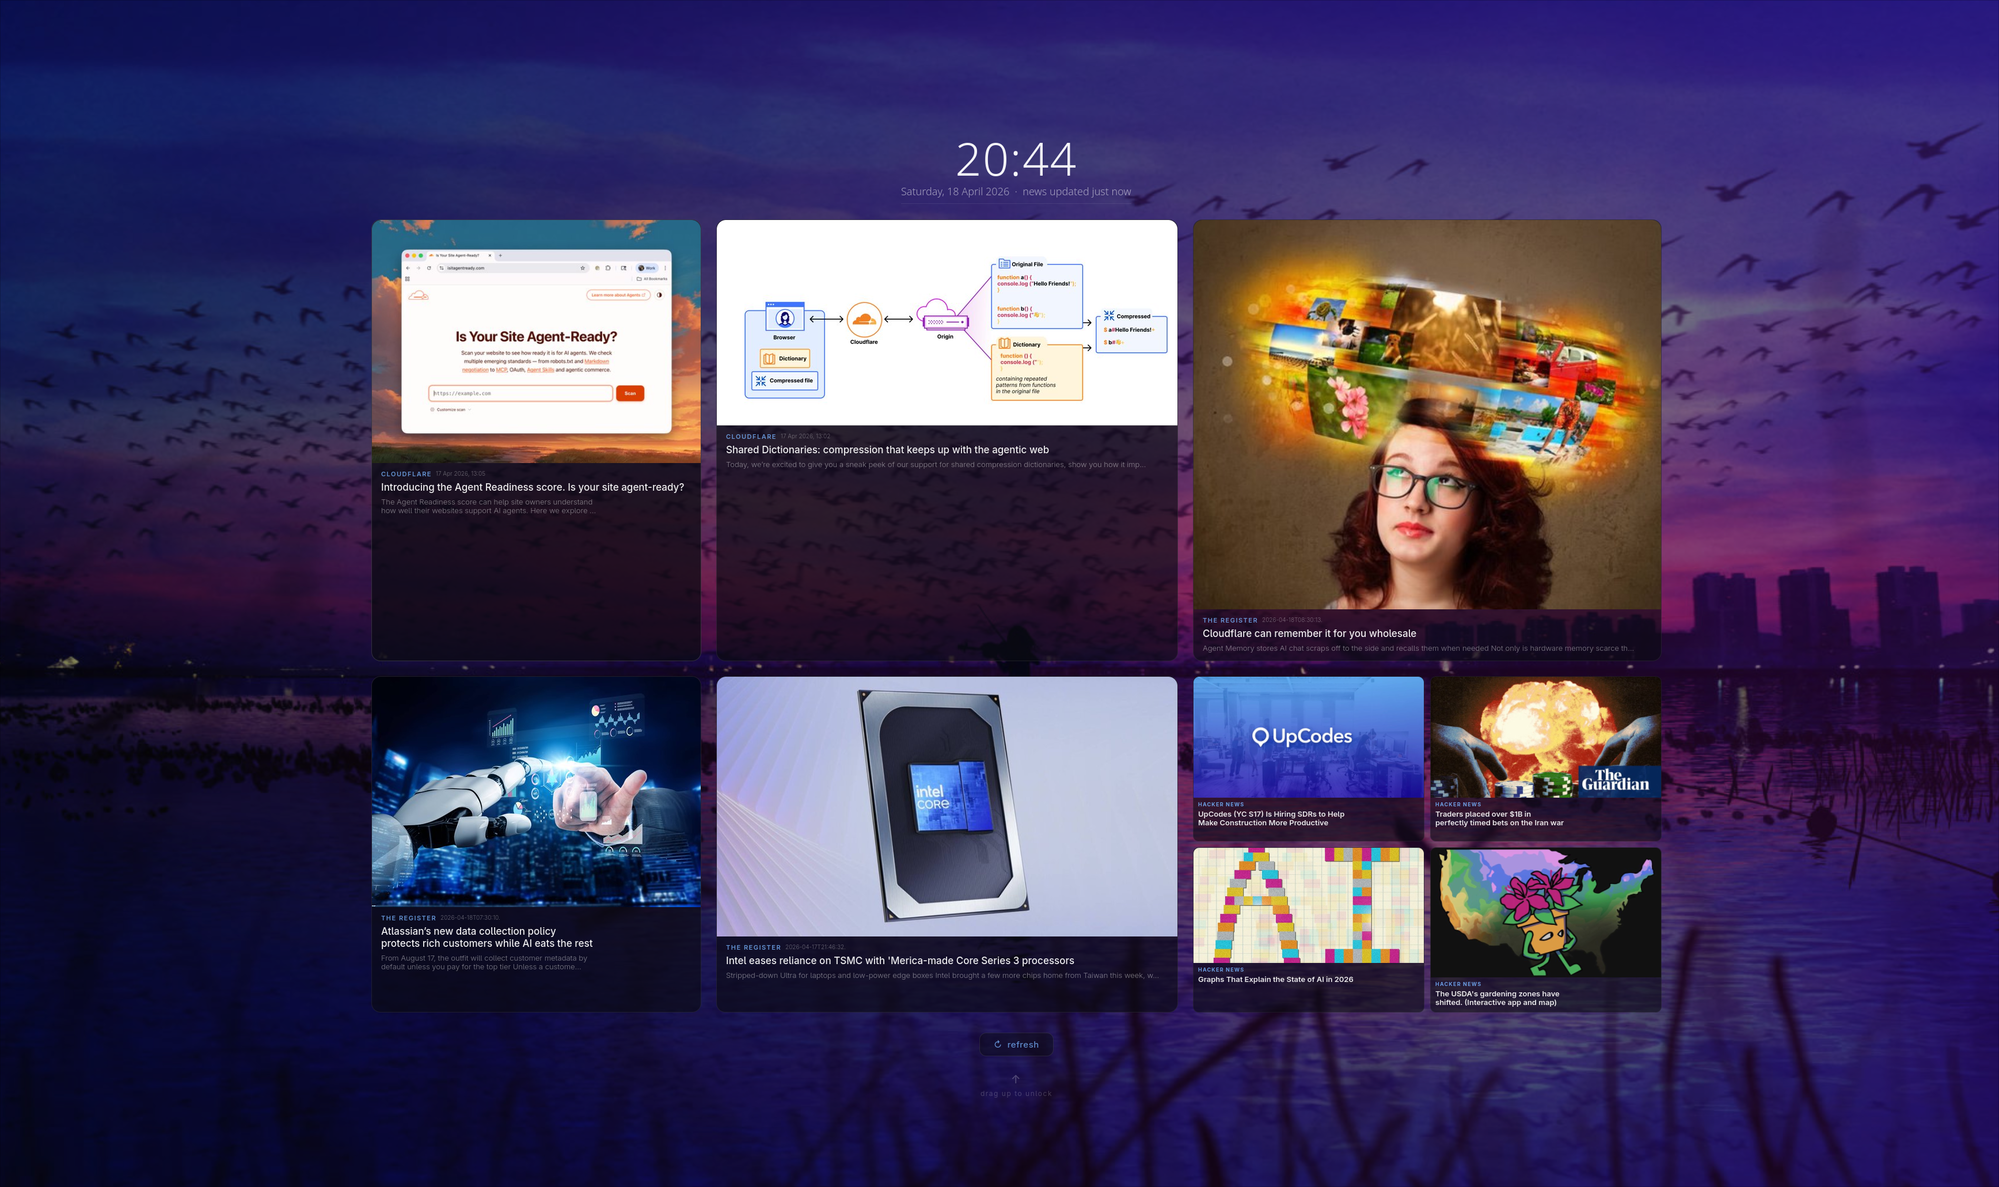
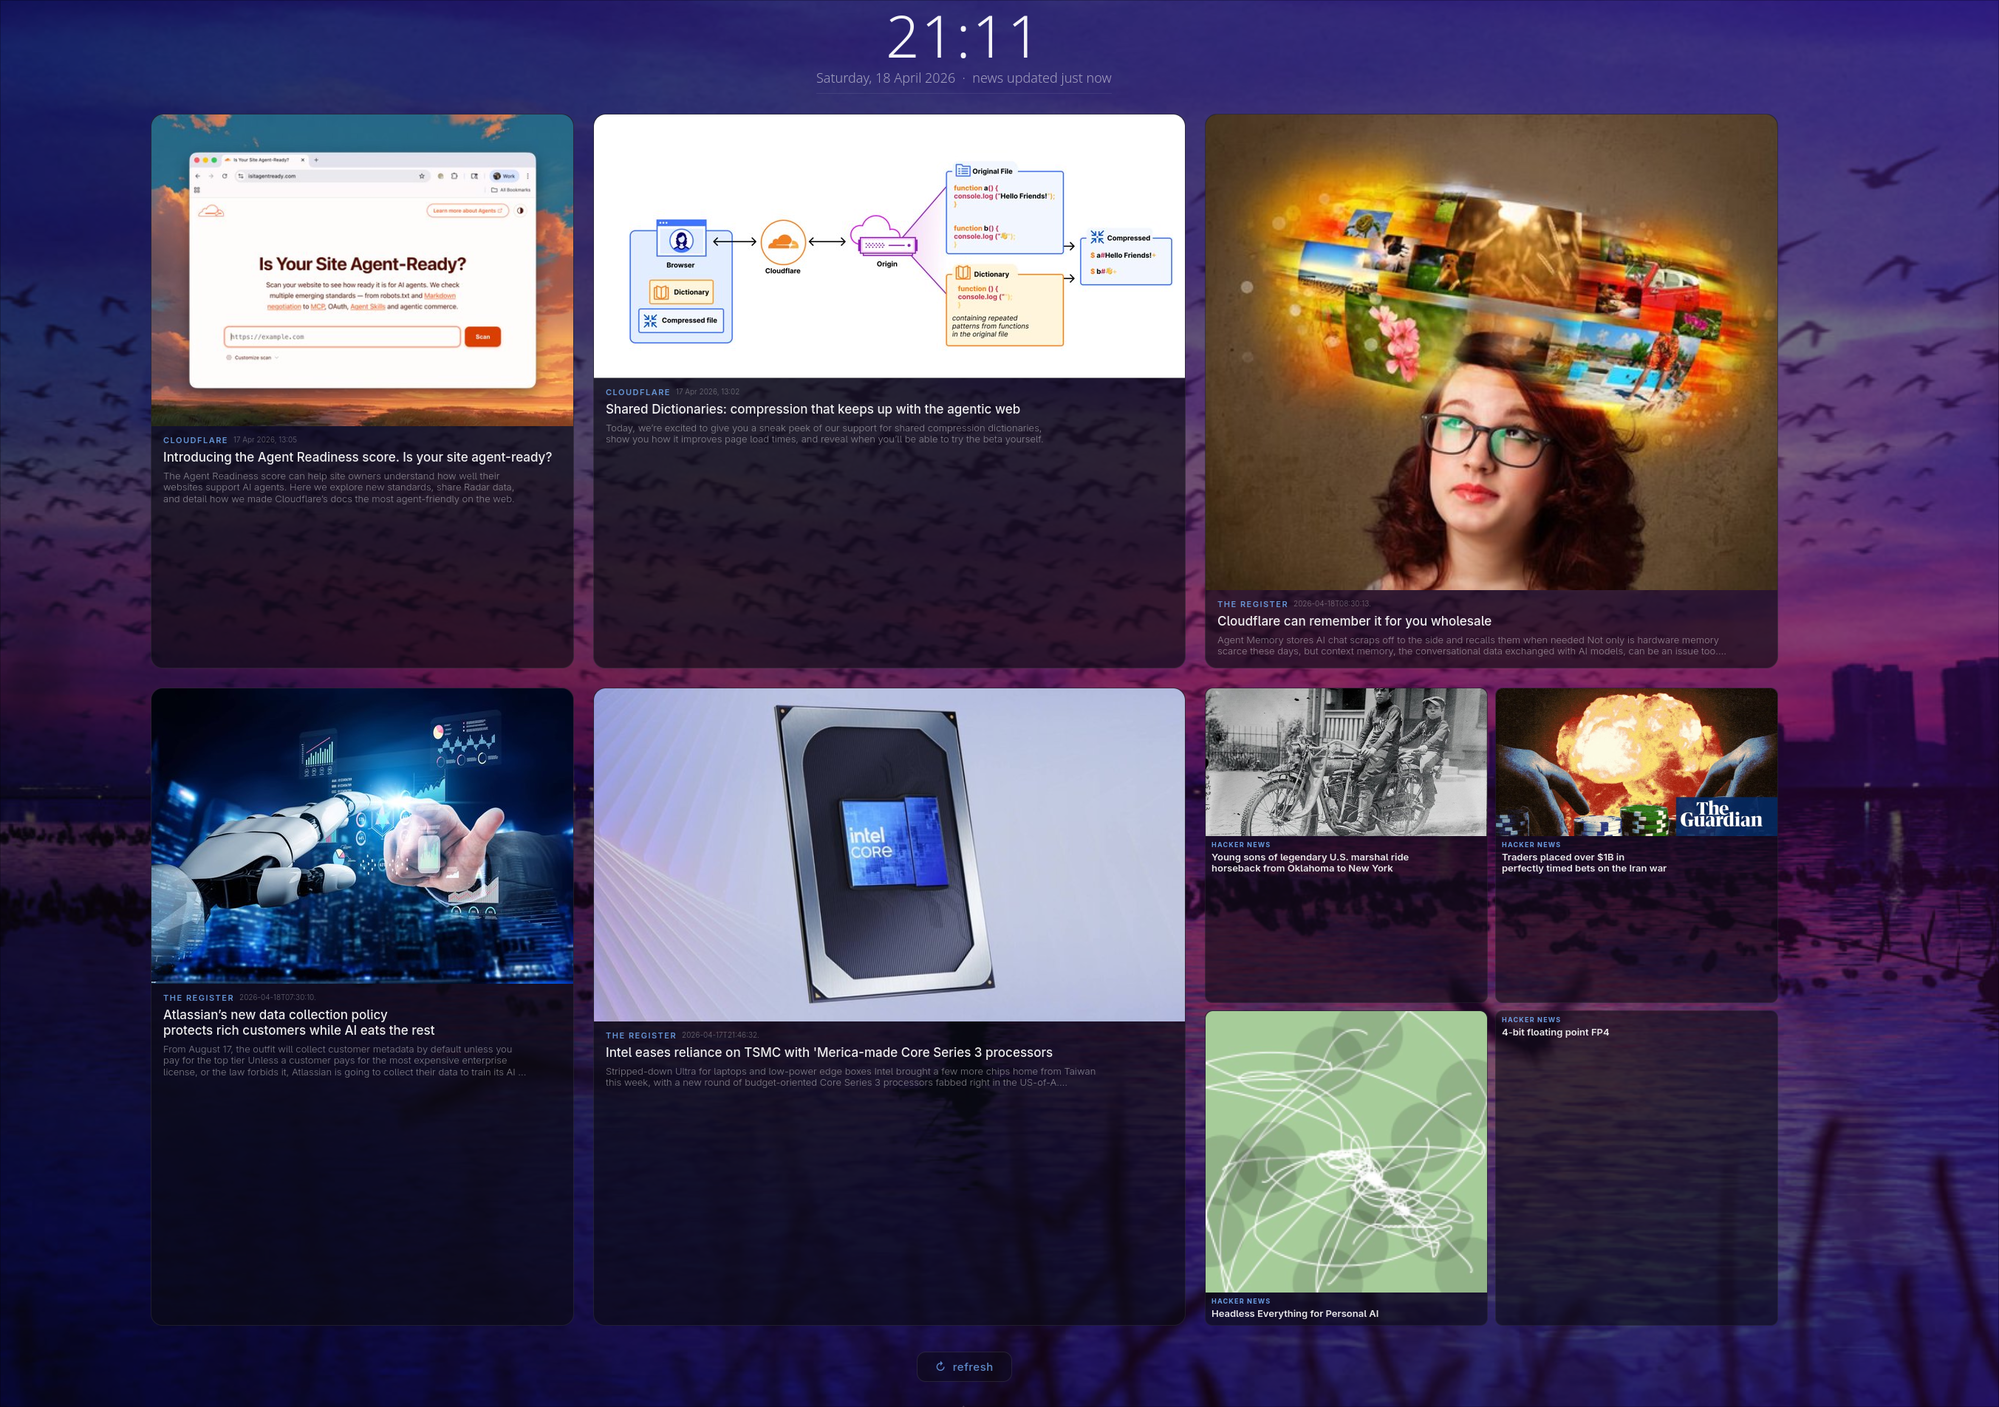
Add article reader view, improve card layout and performance
- Click any card to expand and read the full article in-place
- Add article view screenshot to README
- Bigger card text (19px titles, 14px summaries)
- Longer article previews on cards (250 chars)
- Smarter image sorting: items with images get priority slots
- Fix image centering in expanded article view
- Faster refresh using cache updater
- Clean RSS summaries only (no scraped junk)

diff --git a/README.md b/README.md
@@ -4,6 +4,10 @@ A news screensaver for Hyprland (Wayland) that displays live tech and cyber secu
 
 ![screenshot](screenshot.png)
 
+Click any card to expand it in-place and read the full article:
+
+![article view](screenshot-article.png)
+
 ## Features
 
 - **Live news cards** -- fetches headlines from configurable RSS feeds and displays them as interactive cards
